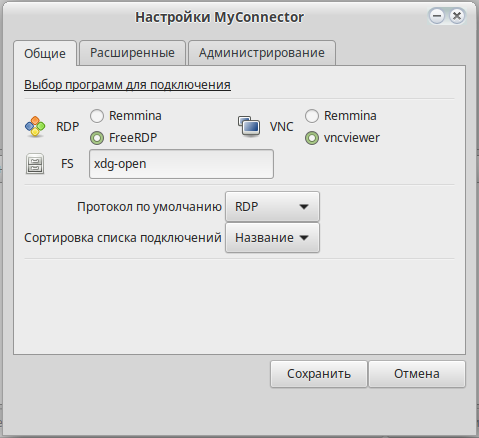
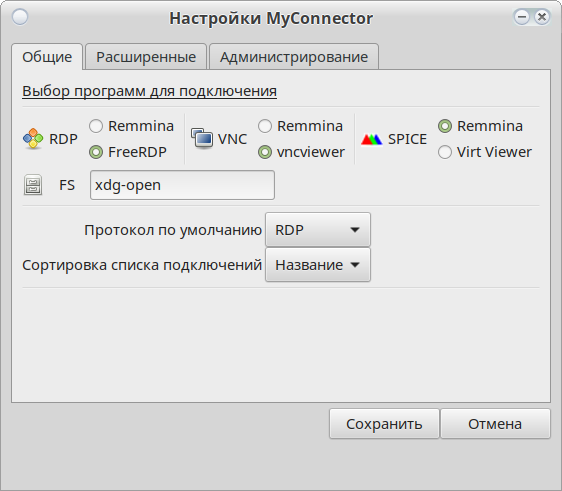
Updated docs

Changed region(s): [[0.0, 0.0, 1.0, 1.0], [0.263, 0.0, 0.6722, 0.0594]]

diff --git a/docs/index.html b/docs/index.html
@@ -134,13 +134,13 @@ $ sudo make install
 </section>
 <span id="document-prog_settings"></span><section id="rst-prog-settings">
 <span id="id1"></span><h2>Параметры программы<a class="headerlink" href="#rst-prog-settings" title="Ссылка на этот заголовок">¶</a></h2>
-<p>Для выбора программ, используемых по умолчанию для подключения по протоколам RDP и VNC, необходимо открыть главное меню программы и выбрать «Параметры» (или через <a class="reference internal" href="index.html#rst-tray"><span class="std std-ref">Значок в области уведомлений</span></a>), либо нажать комбинацию клавиш <span class="guilabel"><span class="accelerator">C</span>trl</span> + <span class="guilabel"><span class="accelerator">P</span></span>. После этого откроется окно настройки параметров приложения:</p>
+<p>Для выбора программ, используемых по умолчанию для подключения по протоколам RDP, VNC и SPICE, необходимо открыть главное меню программы и выбрать «Параметры» (или через <a class="reference internal" href="index.html#rst-tray"><span class="std std-ref">Значок в области уведомлений</span></a>), либо нажать комбинацию клавиш <span class="guilabel"><span class="accelerator">C</span>trl</span> + <span class="guilabel"><span class="accelerator">P</span></span>. После этого откроется окно настройки параметров приложения:</p>
 <figure class="align-default">
 <img alt="_images/params1.png" src="_images/params1.png" />
 </figure>
-<p>Есть возможность сменить программу для RDP-соединения - Remmina или FreeRDP. Для подключения по VNC тоже есть два варианта - Remmina и vncviewer (любая программа, предоставляющая данный функционал). По умолчанию подключение по RDP настроено через FreeRDP, VNC - через vncviewer.</p>
+<p>Есть возможность сменить программу для RDP-соединения - Remmina или FreeRDP, для подключения по VNC - Remmina и vncviewer (любая программа, предоставляющая данный функционал) и для подключения по SPICE - Remmina и Virt Viewer. По умолчанию подключение по RDP настроено через FreeRDP, VNC - через vncviewer, а SPICE - через Remmina.</p>
 <p>Также Вы можете настроить отображение определенного протокола на главном окне приложения по умолчанию и сортировку для <a class="reference internal" href="index.html#rst-list"><span class="std std-ref">Список сохраненных подключений</span></a>.</p>
-<p>На вкладке «Расширенные» настраивается отображение значка в трее, проверка обновлений программы, ведение логов, редактор для файлов подключений и сохранение паролей. Есть возможность очистить базу адресов серверов, к которым было совершено подключение (выпадающий список при вводе адреса на главном окне или в доп. параметрах), <a class="reference internal" href="index.html#rst-list"><span class="std std-ref">Список сохраненных подключений</span></a> и сохраненные пароли. Или произвести сброс всех параметров программы.</p>
+<p>На вкладке «Расширенные» настраивается отображение значка в трее, проверка обновлений программы, ведение логов, редактор для файлов подключений и сохранение паролей. Есть возможность очистить базу адресов серверов, к которым было совершено подключение (выпадающий список при вводе адреса на главном окне или в доп. параметрах), <a class="reference internal" href="index.html#rst-list"><span class="std std-ref">Список сохраненных подключений</span></a>, сохраненные пароли и список недавних подключений. Или произвести сброс всех параметров программы.</p>
 <figure class="align-default">
 <img alt="_images/params2.png" src="_images/params2.png" />
 </figure>
@@ -236,7 +236,7 @@ $ sudo myconnector
 </section>
 <span id="document-admin"></span><section id="rst-admin">
 <span id="id1"></span><h2>Параметры администратора<a class="headerlink" href="#rst-admin" title="Ссылка на этот заголовок">¶</a></h2>
-<p>С версии приложения MyConnector 2.3 добавилась новая вкладка в <span class="xref std std-ref">rst-prog-setings</span> - «Администрирование»:</p>
+<p>С версии приложения MyConnector 2.3 добавилась новая вкладка в <a href="#document-prog_settings">параметрах программы</a> - «Администрирование»:</p>
 <figure class="align-default">
 <img alt="_images/params3.png" src="_images/params3.png" />
 </figure>

diff --git a/docs/prog_settings.rst b/docs/prog_settings.rst
@@ -18,15 +18,15 @@
 Параметры программы
 ===================
 
-Для выбора программ, используемых по умолчанию для подключения по протоколам RDP и VNC, необходимо открыть главное меню программы и выбрать "Параметры" (или через :ref:`rst-tray`), либо нажать комбинацию клавиш :guilabel:`&Ctrl` + :guilabel:`&P`. После этого откроется окно настройки параметров приложения:
+Для выбора программ, используемых по умолчанию для подключения по протоколам RDP, VNC и SPICE, необходимо открыть главное меню программы и выбрать "Параметры" (или через :ref:`rst-tray`), либо нажать комбинацию клавиш :guilabel:`&Ctrl` + :guilabel:`&P`. После этого откроется окно настройки параметров приложения:
 
 .. figure:: _images/params1.png
 
-Есть возможность сменить программу для RDP-соединения - Remmina или FreeRDP. Для подключения по VNC тоже есть два варианта - Remmina и vncviewer (любая программа, предоставляющая данный функционал). По умолчанию подключение по RDP настроено через FreeRDP, VNC - через vncviewer.
+Есть возможность сменить программу для RDP-соединения - Remmina или FreeRDP, для подключения по VNC - Remmina и vncviewer (любая программа, предоставляющая данный функционал) и для подключения по SPICE - Remmina и Virt Viewer. По умолчанию подключение по RDP настроено через FreeRDP, VNC - через vncviewer, а SPICE - через Remmina.
 
 Также Вы можете настроить отображение определенного протокола на главном окне приложения по умолчанию и сортировку для :ref:`rst-list`.
 
-На вкладке "Расширенные" настраивается отображение значка в трее, проверка обновлений программы, ведение логов, редактор для файлов подключений и сохранение паролей. Есть возможность очистить базу адресов серверов, к которым было совершено подключение (выпадающий список при вводе адреса на главном окне или в доп. параметрах), :ref:`rst-list` и сохраненные пароли. Или произвести сброс всех параметров программы.
+На вкладке "Расширенные" настраивается отображение значка в трее, проверка обновлений программы, ведение логов, редактор для файлов подключений и сохранение паролей. Есть возможность очистить базу адресов серверов, к которым было совершено подключение (выпадающий список при вводе адреса на главном окне или в доп. параметрах), :ref:`rst-list`, сохраненные пароли и список недавних подключений. Или произвести сброс всех параметров программы.
 
 .. figure:: _images/params2.png
 
